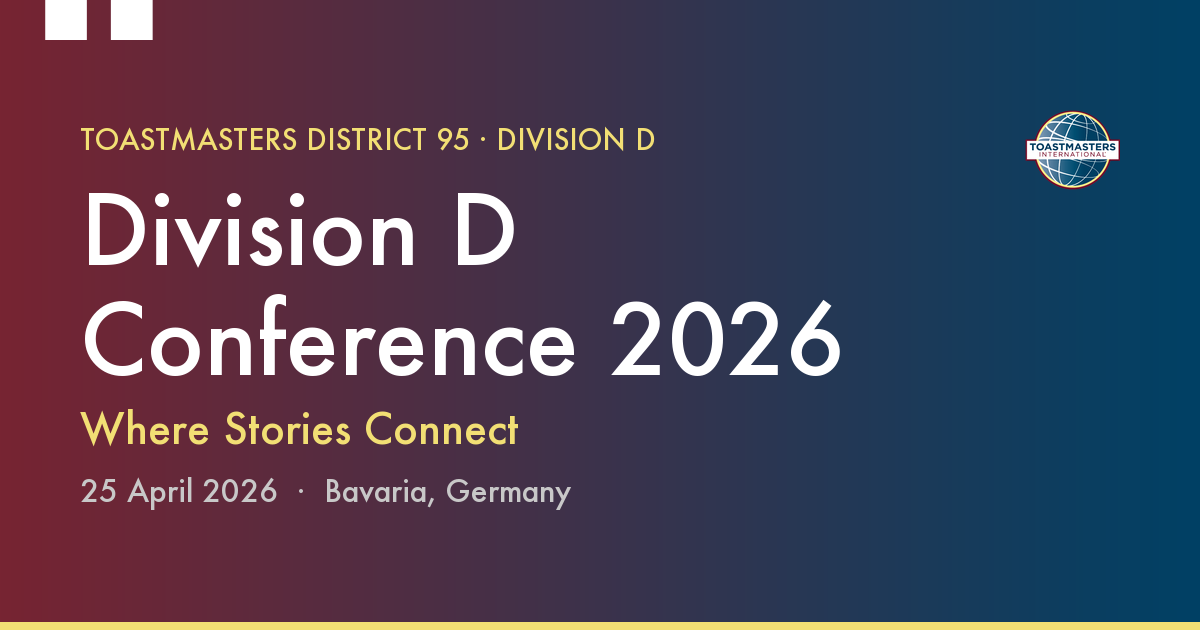
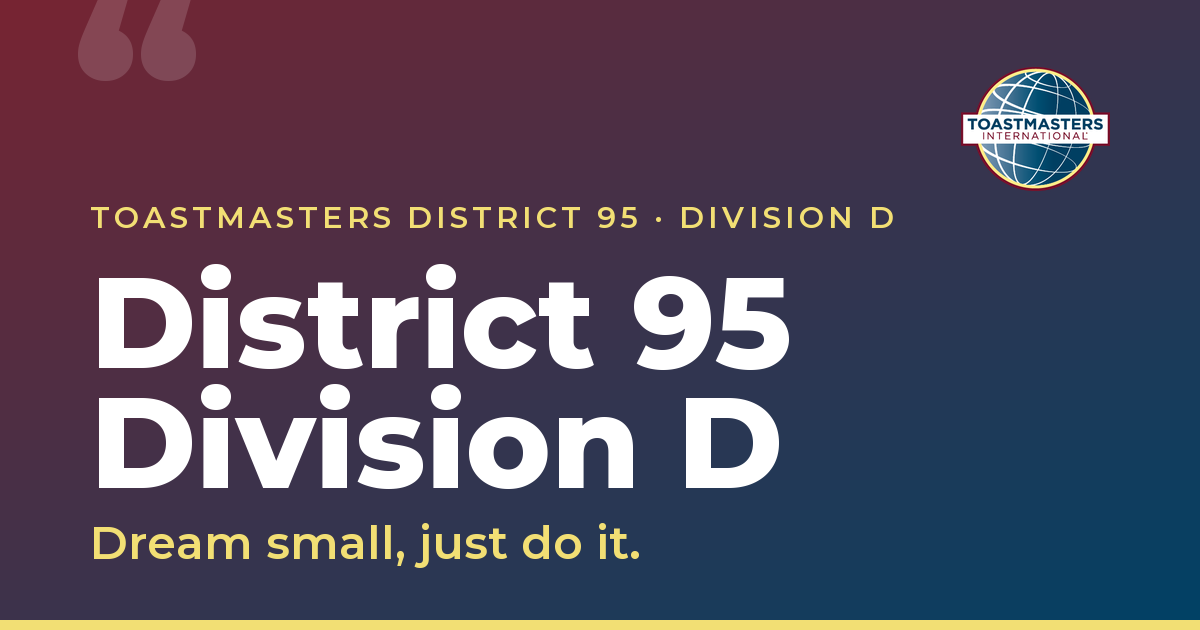
Replace social share image with District 95 Division D card
The old og-image.png had "Division D Conference 2026 / Where Stories
Connect" baked into the pixels, so link previews still showed the
conference card even after the meta tags were updated.

- Regenerated images/og-image.png (1200x630) on-brand: maroon→navy
  gradient, Toastmasters globe, "District 95 Division D" title, motto
  "Dream small, just do it."
- Bumped og:image / twitter:image / JSON-LD image URLs to ?v=2 so
  WhatsApp/Facebook/Twitter fetch the new file instead of a cached copy

diff --git a/index.html b/index.html
@@ -12,7 +12,7 @@
   <meta property="og:site_name" content="Toastmasters Bayern" />
   <meta property="og:title" content="District 95 Division D" />
   <meta property="og:description" content="Dream small, just do it. — Toastmasters clubs across Bavaria." />
-  <meta property="og:image" content="https://toastmasters-bayern.com/images/og-image.png" />
+  <meta property="og:image" content="https://toastmasters-bayern.com/images/og-image.png?v=2" />
   <meta property="og:image:width" content="1200" />
   <meta property="og:image:height" content="630" />
   <meta property="og:image:type" content="image/png" />
@@ -23,7 +23,7 @@
   <meta name="twitter:card" content="summary_large_image" />
   <meta name="twitter:title" content="District 95 Division D" />
   <meta name="twitter:description" content="Dream small, just do it. — Toastmasters clubs across Bavaria." />
-  <meta name="twitter:image" content="https://toastmasters-bayern.com/images/og-image.png" />
+  <meta name="twitter:image" content="https://toastmasters-bayern.com/images/og-image.png?v=2" />
 
   <link rel="canonical" href="https://toastmasters-bayern.com/" />
   <meta name="theme-color" content="#004165" />
@@ -60,7 +60,7 @@
         "addressCountry": "DE"
       }
     },
-    "image": "https://toastmasters-bayern.com/images/og-image.png",
+    "image": "https://toastmasters-bayern.com/images/og-image.png?v=2",
     "organizer": {
       "@type": "Organization",
       "name": "Toastmasters Bayern — Division D, District 95",

diff --git a/agenda.html b/agenda.html
@@ -20,7 +20,7 @@
   <meta property="og:site_name" content="Toastmasters Bayern" />
   <meta property="og:title" content="Programme — District 95 Division D" />
   <meta property="og:description" content="Full day programme for District 95 Division D, 25 April in Munich." />
-  <meta property="og:image" content="https://toastmasters-bayern.com/images/og-image.png" />
+  <meta property="og:image" content="https://toastmasters-bayern.com/images/og-image.png?v=2" />
   <meta property="og:image:width" content="1200" />
   <meta property="og:image:height" content="630" />
   <meta property="og:image:type" content="image/png" />
@@ -774,7 +774,7 @@
     <div class="agenda-hero__meta">
       <span class="agenda-updated">
         <span class="agenda-updated__dot"></span>
-        <span data-i18n-en="Last updated: 10 June 2026, 20:26" data-i18n-de="Zuletzt aktualisiert: 10. Juni 2026, 20:26">Last updated: 10 June 2026, 20:26</span>
+        <span data-i18n-en="Last updated: 10 June 2026, 20:39" data-i18n-de="Zuletzt aktualisiert: 10. Juni 2026, 20:39">Last updated: 10 June 2026, 20:39</span>
         <!-- UPDATE DATE + TIME whenever the agenda changes -->
       </span>
       <div class="agenda-lang">
